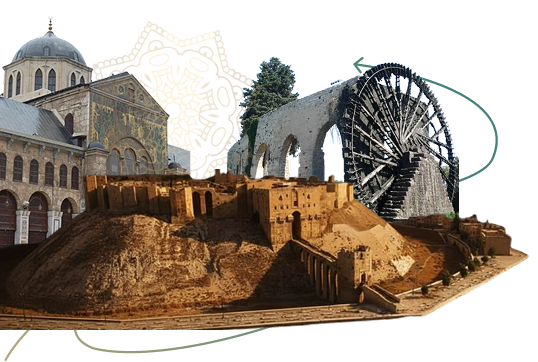
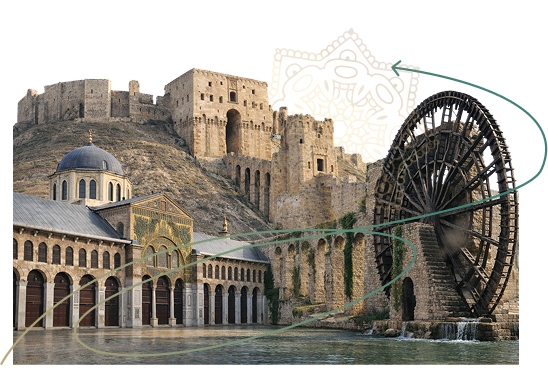
Inhance the website.

diff --git a/app/[locale]/(static)/international-participation/_components/theNewSyriaSection.tsx b/app/[locale]/(static)/international-participation/_components/theNewSyriaSection.tsx
@@ -6,19 +6,19 @@ export default async function TheNewSyriaSection() {
     const t = await getTranslations('theNewSyriaSection');
     return (
         <section className={'container pt-32 md:pt-64  w-full'}>
-            <div className={'flex flex-col-reverse md:flex-row gap-12 items-center'}>
+            <div className={'flex flex-col-reverse md:flex-row gap-16 lg:gap-12 items-center'}>
                 <ServerMotion animation="slideLeft">
-                    <img src="/svg/map-with-new-syria.svg" alt="map-frame" width={800} height={350} />
+                    <img src="/svg/map-with-new-syria.svg" alt="map-frame" className="w-full scale-140 lg:scale-100 object-center" />
                 </ServerMotion>
                 <ServerMotion animation="slideRight" className="flex flex-col gap-4">
-                    <h3 className="text-2xl md:text-3xl font-semibold leading-normal text-foreground max-w-2xl">
+                    <h3 className="text-lg md:text-3xl font-semibold leading-normal text-foreground max-w-2xl">
                         {t.rich('part1', {
                             primary: (chunks) => <span className="text-white px-1 bg-[#428177]">{chunks}</span>,
                             secondary: (chunks) => <span className="text-white px-1 bg-secondary">{chunks}</span>,
                             br: () => <br />
                         })}
                     </h3>
-                    <h3 className="ms-24 md:ms-24 text-2xl md:text-3xl font-medium leading-normal text-foreground max-w-2xl">
+                    <h3 className="ms-24 md:ms-24 text-lg md:text-3xl  font-medium leading-normal text-foreground max-w-2xl">
                         {t.rich('part2', {
                             primary: (chunks) => <span className="text-white ms-2 px-2 bg-[#428177]">{chunks}</span>,
                             br: () => <br />

diff --git a/app/[locale]/(static)/about-ministry/_components/sections/ourTasks.tsx b/app/[locale]/(static)/about-ministry/_components/sections/ourTasks.tsx
@@ -7,17 +7,17 @@ export const OurTasksSection = async () => {
     const indices = Array.from({ length: 4 }, (_, i) => (i + 1).toString());
 
     return (
-        <section className={'mt-16 lg:mt-16 w-full'}>
+        <section className={'mt-16 lg:mt-16 overflow-hidden w-full'}>
             <ServerMotion animation="fadeUp" className="text-center mb-12">
                 <h2 className="text-2xl font-medium text-[#3D3D3D]">
                     {t('title')}
                 </h2>
             </ServerMotion>
 
-            <div className="grid grid-cols-1 md:grid-cols-2 lg:grid-cols-4 gap-8 justify-items-center max-w-7xl mx-auto">
+            <div className="grid grid-cols-1 md:grid-cols-2 lg:grid-cols-4 gap-8 justify-items-center   max-w-7xl mx-auto">
                 {indices.map((index: string, i: number) => (
                     <ServerMotion key={index} animation="fadeUp" staggerIndex={i} hover="lift">
-                        <div className='relative flex shadow-sm items-center max-h-20 min-w-[18rem] max-w-[20rem] min-h-[110px] justify-center bg-[#F4F6F5] py-8 px-10 rounded-[6px]'>
+                        <div className='relative flex shadow-sm items-center max-h-20  max-w-72 min-w-72 min-h-[110px] justify-center bg-[#F4F6F5] py-8 px-10 rounded-[6px]'>
                             <label className='text-[#2B2B2B] pe-20 font-medium text-md md:text-lg'>{t(`tasks.${index}.title`)}</label>
                             <img className='absolute top-0 end-4' src={"/svg/card-circle" + index + ".svg"} alt="" />
                         </div>

diff --git a/app/[locale]/(static)/international-participation/_components/highlightsOfInternationalParticipations.tsx b/app/[locale]/(static)/international-participation/_components/highlightsOfInternationalParticipations.tsx
@@ -9,13 +9,13 @@ export default async function HighlightsOfInternationalParticipations() {
     const indices = Array.from({ length: 4 }, (_, i) => (i + 1).toString());
 
     return (
-        <section className="container min-h-screen md:mt-32 mt-8 relative flex flex-col  justify-center lg:justify-start" id={"highlightsSection"}>
+        <section className="container min-h-screen md:mt-32 mt-20 relative flex flex-col  justify-center lg:justify-start" id={"highlightsSection"}>
             {/* Header divider */}
             <ServerMotion animation="fadeUp">
                 <div className="flex gap-4 items-center mt-0 w-full justify-center lg:justify-center">
                     <div className="flex w-full md:w-32 lg:w-full h-0.5 bg-[#B9A779]"></div>
-                    <div className="flex items-center px-4 py-2 justify-center">
-                        <h1 className="text-[#484848] lg:text-2xl text-lg font-medium text-center lg:text-nowrap">{t('highlightsOfInternationalParticipations.title')}</h1>
+                    <div className="flex items-center lg:px-4 py-2 justify-center">
+                        <h1 className="text-[#484848] whitespace-nowrap text-md lg:text-2xl font-medium text-center lg:text-nowrap">{t('highlightsOfInternationalParticipations.title')}</h1>
                     </div>
                     <div className="flex w-full md:w-32 lg:w-full h-0.5 bg-[#B9A779]"></div>
                 </div>

diff --git a/app/[locale]/(static)/about-ministry/_components/sections/aboutMinistryHero.tsx b/app/[locale]/(static)/about-ministry/_components/sections/aboutMinistryHero.tsx
@@ -6,7 +6,7 @@ import { ServerMotion, MotionItem } from "@/components/motion";
 export default async function AboutMinistryHero() {
     const t = await getTranslations();
     return (
-        <section className="container relative flex flex-col  justify-center items-center " id={"home"}>
+        <section className="container relative flex flex-col  justify-center items-center overflow-hidden" id={"home"}>
 
             <ServerMotion animation="stagger" trigger="onMount" className="mt-30 grid grid-cols-1  lg:grid-cols-2 justify-center gap-20 mx-auto lg:mt-60 items-center">
                 <MotionItem className="flex flex-col justify-center  lg:items-start lg:ms-11 items-center">
@@ -24,7 +24,7 @@ export default async function AboutMinistryHero() {
                         <div className="flex w-16 md:w-32 lg:w-60 h-1 bg-secondary"></div>
                     </div>
                 </MotionItem>
-                <MotionItem className="flex w-full justify-center lg:w-fit mx-auto flex-col-reverse lg:flex-col items-center lg:order-0 gap-4">
+                <MotionItem className="flex w-full justify-center lg:w-fit mx-auto flex-col-reverse lg:flex-col items-center lg:order-0  gap-4">
                     <Image
                         src="/images/about-hero-image.png"
                         width={700}

diff --git a/app/[locale]/_components/sections/VisionSection.tsx b/app/[locale]/_components/sections/VisionSection.tsx
@@ -5,10 +5,10 @@ import { ServerMotion, MotionItem } from "@/components/motion";
 export default async function VisionSection() {
     const t = await getTranslations('visionSection');
     return (
-        <section className={'pt-16 px-6 md:pt-0 mb-32  md:mb-24  w-full'}>
+        <section className={' mb-24  md:mb-30  w-full'}>
             <ServerMotion animation="scaleIn" className="flex relative justify-center items-center text-center">
                 <img src="/svg/half-shape-left.svg" alt="Vision" className="absolute left-0 " />
-                <h3 className="text-xl md:text-2xl leading-12 font-medium text-foreground max-w-6xl text-pretty ">
+                <h3 className="pt-8 px-6 md:pt-0  text-xl md:text-2xl leading-12 font-medium text-foreground max-w-6xl text-pretty ">
                     {t.rich('quote', {
                         primary: (chunks) => <span className="text-white  pe-5 ps-1 bg-[#428177]">{chunks}</span>,
                         secondary: (chunks) => <span className="text-white px-1 bg-secondary">{chunks}</span>,

diff --git a/app/[locale]/_components/sections/syria-section.tsx b/app/[locale]/_components/sections/syria-section.tsx
@@ -1,12 +1,12 @@
 
 import { getTranslations } from "next-intl/server";
 import Image from "next/image";
-import { ServerMotion, MotionItem } from "@/components/motion";
+import { ServerMotion } from "@/components/motion";
 
 export default async function SyriaSection() {
     const t = await getTranslations('syria');
     return (
-        <section className={'pt-16 md:pt-32 min-h-[400px]  bg-[#F9F9F9] h-120  w-full  bg-size-[120%] bg-top bg-no-repeat bg-[url(/images/map-frame.svg)]'}>
+        <section className={'py-8 mt-8 min-h-[400px]  bg-[#F9F9F9]   w-full overflow-hidden  bg-size-[120%] bg-top bg-no-repeat bg-[url(/images/map-frame.svg)]'}>
             <div className={'container grid grid-cols-1 md:grid-cols-2 gap-12 items-center'}>
                 <ServerMotion animation="slideLeft">
                     <Image src="/images/map.svg" alt="map-frame" width={800} height={350} />

diff --git a/app/[locale]/(static)/about-ministry/_components/sections/OurMessageSection.tsx b/app/[locale]/(static)/about-ministry/_components/sections/OurMessageSection.tsx
@@ -6,7 +6,7 @@ export default async function OurMessageSection() {
     const t = await getTranslations('ourMessageSection');
 
     return (
-        <section className="container relative flex flex-col justify-center lg:justify-start" id={"ourMessageSection"}>
+        <section className="container relative flex flex-col justify-center lg:justify-start overflow-hidden" id={"ourMessageSection"}>
 
             <div className="grid grid-cols-1 lg:grid-cols-2 justify-center gap-10 mx-auto mt-24  items-center">
                 <ServerMotion animation="slideLeft" className="flex w-full lg:w-fit mx-auto flex-col-reverse lg:flex-col items-center lg:order-0 gap-4">

diff --git a/app/[locale]/(static)/about-ministry/_components/sections/syrianStory.tsx b/app/[locale]/(static)/about-ministry/_components/sections/syrianStory.tsx
@@ -6,7 +6,7 @@ export default async function SyrianStorySection() {
     const t = await getTranslations('syrianStorySection');
 
     return (
-        <section className="container mb-12  mt-16 md:mt-32  relative flex flex-col justify-center lg:justify-start" id={"syrianStorySection"}>
+        <section className="container mb-12  mt-16 md:mt-32  relative flex flex-col justify-center lg:justify-start overflow-hidden" id={"syrianStorySection"}>
             {/* Header divider */}
             <ServerMotion animation="fadeUp">
                 <div className="flex gap-4 items-center mt-14 w-full justify-center lg:justify-center">

diff --git a/app/[locale]/_components/sections/UnescoCarousel.tsx b/app/[locale]/_components/sections/UnescoCarousel.tsx
@@ -72,7 +72,7 @@ export function UnescoCarousel({ items, locale }: UnescoCarouselProps) {
 
                                 <div className={cn("flex flex-col gap-2")}>
                                     <h3 className="text-lg font-semibold">{item.title}</h3>
-                                    <p className="text-[#d6bf94] font-semibold text-lg">{item.year}</p>
+                                    <p className="text-[#d6bf94] text-center lg:text-start font-semibold text-lg">{item.year}</p>
                                 </div>
 
                             </div>

diff --git a/app/[locale]/_components/cultural-card.tsx b/app/[locale]/_components/cultural-card.tsx
@@ -13,7 +13,7 @@ const CulturalCard: React.FC<CulturalPrincipleProps> = ({
 }) => {
     return (
         <div
-            className="group relative max-w-80 md:h-108 md:max-w-96 flex flex-col p-8 bg-[#F4F6F5] rounded-2xl border border-white shadow-sm font-sans overflow-hidden transition-all duration-500"
+            className="group relative max-w-80 md:h-108 md:max-w-96 flex flex-col p-8 bg-[#F4F6F5] rounded-2xl border border-white shadow-sm  overflow-hidden transition-all duration-500"
         >
             {/* Overlay */}
             <div

diff --git a/app/[locale]/_components/sections/cultural-principles-section.tsx b/app/[locale]/_components/sections/cultural-principles-section.tsx
@@ -8,8 +8,8 @@ export const CulturalPrinciplesSection = async () => {
     const indices = Array.from({ length: 7 }, (_, i) => (i + 1).toString());
 
     return (
-        <section className={'md:pt-6 container'}>
-            <h2 className="text-xl md:text-2xl font-bold text-center mb-12 text-[#3D3D3D]">
+        <section className={'md:pt-6 container overflow-hidden'}>
+            <h2 className="text-xl md:text-2xl font-cairo font-bold text-center mb-12 text-[#3D3D3D]">
                 {t('title')}
             </h2>
 

diff --git a/app/[locale]/(static)/about-ministry/_components/sections/nationalCulturalIdentitySection.tsx b/app/[locale]/(static)/about-ministry/_components/sections/nationalCulturalIdentitySection.tsx
@@ -7,7 +7,7 @@ export async function NationalCulturalIdentitySection() {
     const t = await getTranslations('nationalCulturalIdentity');
 
     return (
-        <section className="relative mt-20 md:mt-50  w-full isolate lg:h-76 h-40 overflow-hidden">
+        <section className="relative mt-20 md:mt-50 overflow-hidden w-full isolate lg:h-76 h-40 ">
             {/* Background */}
             <div className="absolute inset-0">
                 <Image
